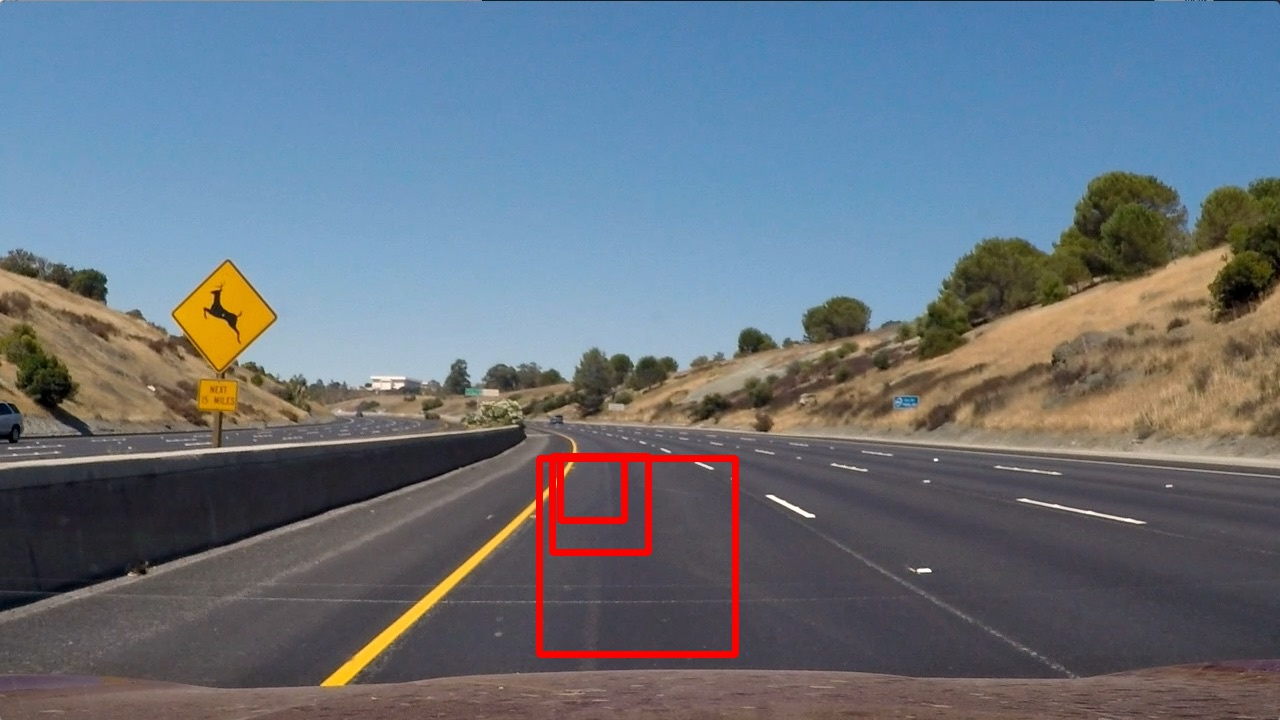
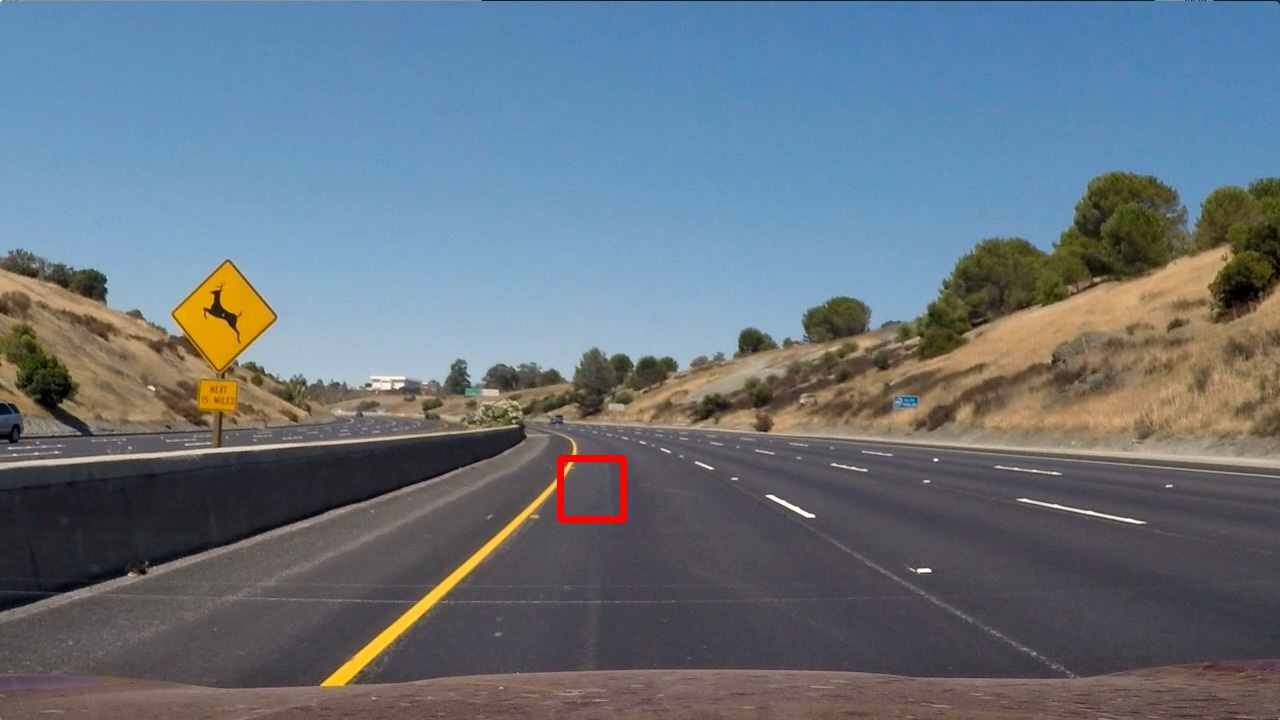
Now it labels the images correctly

Changed region(s): [[0.4062, 0.6111, 0.5938, 0.9167]]

diff --git a/pipeline.py b/pipeline.py
@@ -7,6 +7,7 @@ import argparse
 from sklearn.externals import joblib
 from skimage.feature import hog
 import math
+from scipy.ndimage.measurements import label
 
 IMG_X = 1280
 IMG_Y = 720
@@ -22,15 +23,36 @@ def extract_features(img, x0, y0, x1, y1):
     res = np.concatenate([y_hog, u_hog, v_hog])
     return res
 
-def draw_boxes(img, bboxes, color=(0, 0, 255), thick=6):
-    # Make a copy of the image
-    imcopy = np.copy(img)
-    # Iterate through the bounding boxes
-    for bbox in bboxes:
-        # Draw a rectangle given bbox coordinates
-        cv2.rectangle(imcopy, (bbox[0], bbox[1]), (bbox[2], bbox[3]), color, thick)
-    # Return the image copy with boxes drawn
-    return imcopy
+def add_heat(heatmap, bbox_list):
+    # Iterate through list of bboxes
+    for box in bbox_list:
+        # Add += 1 for all pixels inside each bbox
+        # Assuming each "box" takes the form ((x1, y1), (x2, y2))
+        heatmap[box[0][1]:box[1][1], box[0][0]:box[1][0]] += 1
+
+    # Return updated heatmap
+    return heatmap
+
+def apply_threshold(heatmap, threshold):
+    # Zero out pixels below the threshold
+    heatmap[heatmap <= threshold] = 0
+    # Return thresholded map
+    return heatmap
+
+def draw_labeled_bboxes(img, labels):
+    # Iterate through all detected cars
+    for car_number in range(1, labels[1]+1):
+        # Find pixels with each car_number label value
+        nonzero = (labels[0] == car_number).nonzero()
+        # Identify x and y values of those pixels
+        nonzeroy = np.array(nonzero[0])
+        nonzerox = np.array(nonzero[1])
+        # Define a bounding box based on min/max x and y
+        bbox = ((np.min(nonzerox), np.min(nonzeroy)), (np.max(nonzerox), np.max(nonzeroy)))
+        # Draw the box on the image
+        cv2.rectangle(img, bbox[0], bbox[1], (0,0,255), 6)
+    # Return the image
+    return img
 
 def annotate_image(clf, img):
     found_matches = []
@@ -46,12 +68,17 @@ def annotate_image(clf, img):
                 features = extract_features(img, x0, y0, x1, y1)
                 res = clf.predict([features])
                 if res:
-                    found_matches.append([x0,y0,x1,y1])
+                    found_matches.append([[x0,y0],[x1,y1]])
                 y0 = y0+s//2
             x0 = x0+s//4
             x1 = x0+s
-    img = draw_boxes(img, found_matches)
-    return img
+    heat = np.zeros_like(img[:,:,0]).astype(np.float)
+    add_heat(heat,found_matches)
+    heat = apply_threshold(heat,2)
+    heatmap = np.clip(heat, 0, 255)
+    labels = label(heatmap)
+    draw_img = draw_labeled_bboxes(np.copy(img), labels)
+    return draw_img
 
 def output_test_images():
     '''
